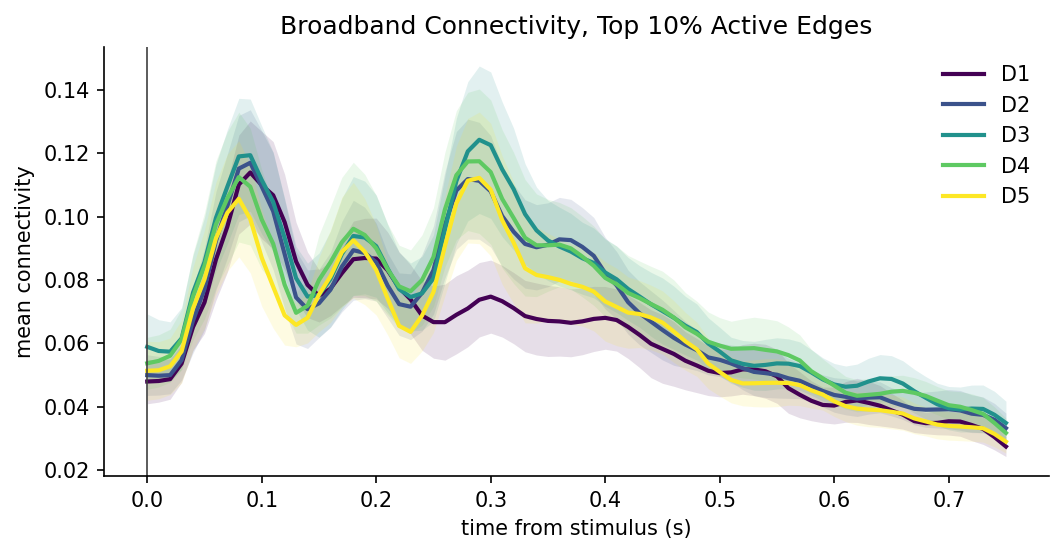
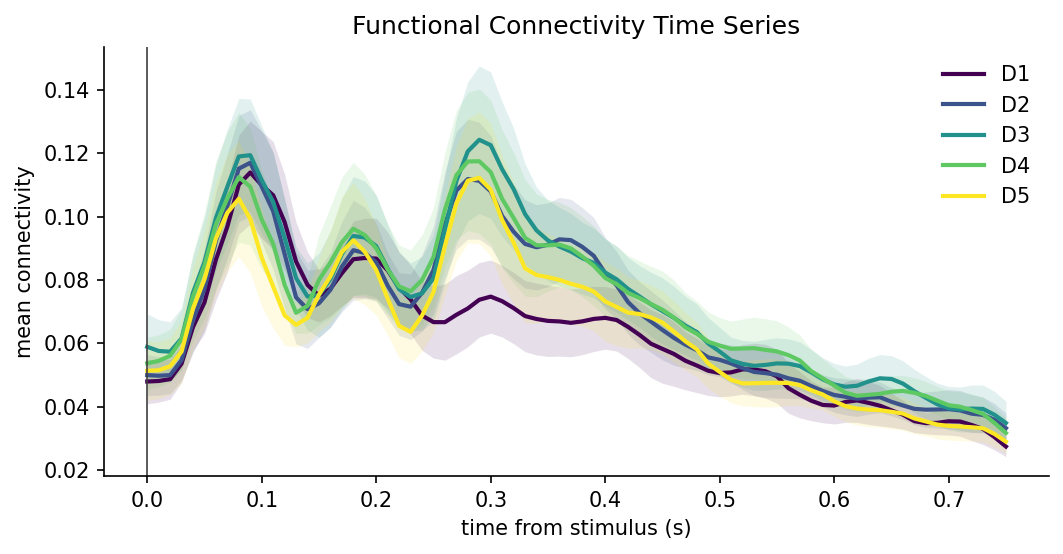
.

Changed region(s): [[0.2484, 0.0307, 0.8382, 0.0614]]

diff --git a/code/presentation_figure.py b/code/presentation_figure.py
@@ -305,7 +305,7 @@ def plot_presentation_connect_overlay(output_dir, figures_dir):
     ax.axvline(0, color="0.25", linewidth=0.8)
     ax.set_xlabel("time from stimulus (s)")
     ax.set_ylabel("mean connectivity")
-    ax.set_title("Broadband Connectivity, Top 10% Active Edges")
+    ax.set_title("Functional Connectivity Time Series")
     ax.legend(frameon=False, ncol=1, loc="upper right")
     setup_axis(ax)
     fig.tight_layout()
